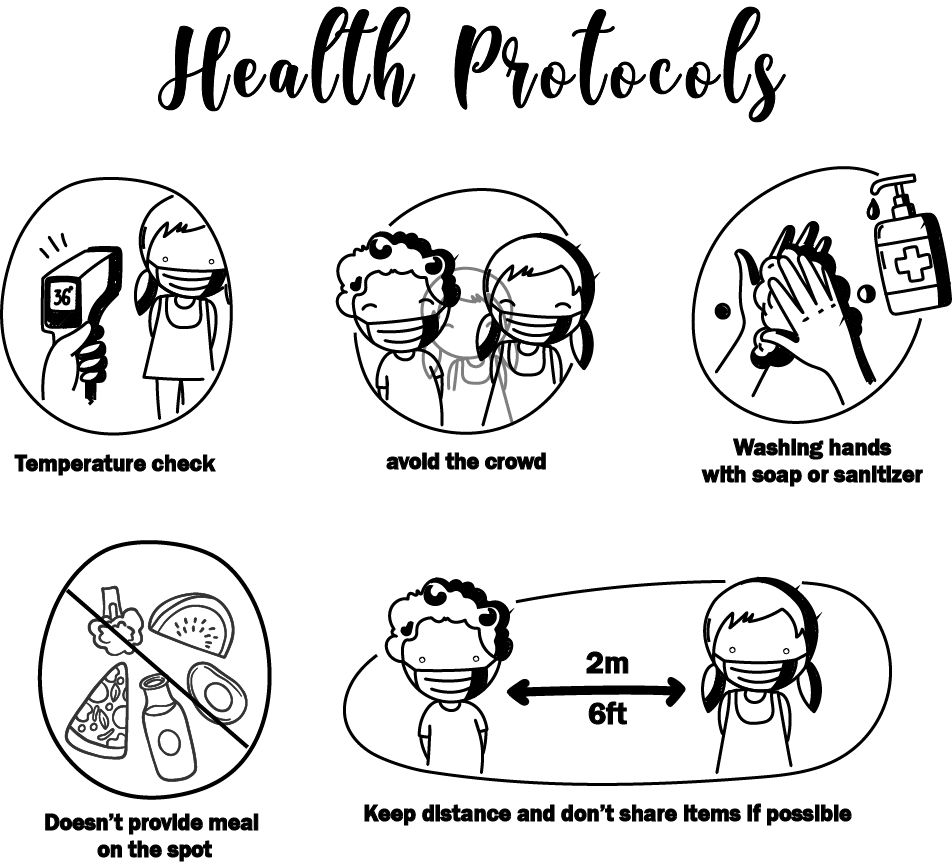
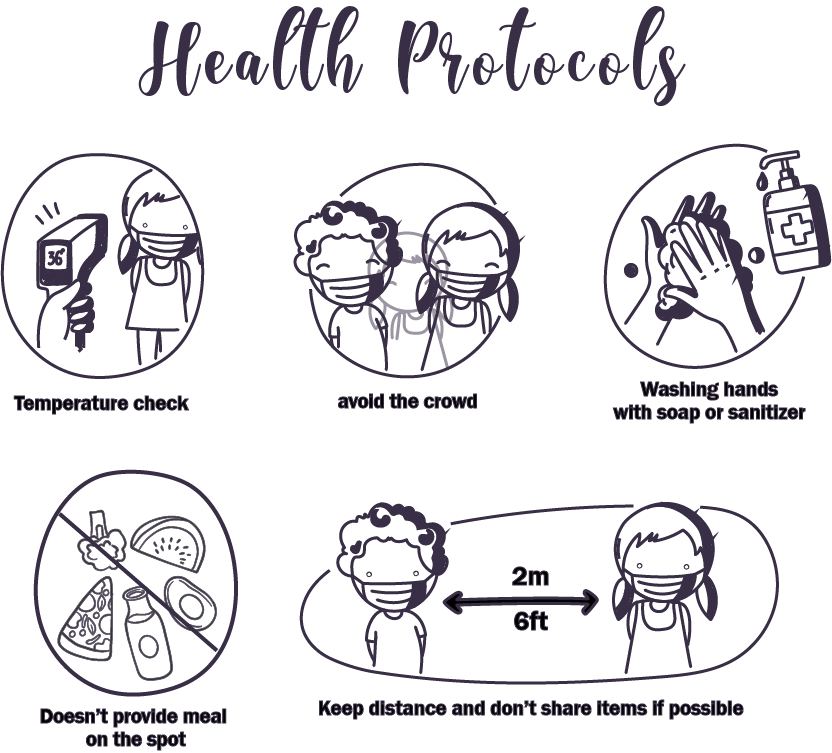
nyenyenyenyenyenye

diff --git a/css/style.css b/css/style.css
@@ -388,7 +388,7 @@ img{
 
 .content-isra h3 b,
 .content-isra p{
-  color: black;
+  color: #484272;
   font-family: 'Playfair Display', serif;
   font-size: 15px;
   line-height: 25px;
@@ -510,6 +510,19 @@ img{
 
 .date{
   margin: 50px 0;
+  position: relative;
+}
+
+.date .ornamen-date{
+  position: absolute;
+  top: 0;
+  left: 0;
+}
+
+.date .ornamen-date img{
+  width: 100%;
+  height: 850px;
+  /* background-color: aquamarine; */
 }
 
 .date .save-the-date,
@@ -519,7 +532,14 @@ img{
   flex-direction: column;
   justify-content: center;
   align-items: center;
-  width: 100vw;
+  width: 90%;
+}
+
+.date .save-the-date img,
+.date .text-date img,
+.date .location img,
+.date .text-date p{
+  margin-left: 150px;
 }
 
 .text-date{
@@ -527,7 +547,7 @@ img{
 }
 
 .text-date img{
-  width: 200px;
+  width: 150px;
 }
 
 .text-date .line-date img{
@@ -536,16 +556,18 @@ img{
 
 .text-date p{
   margin: 10px 0;
-  color: black;
-  font-family: 'Playfair Display', serif; 
+  color: #484272;
+  font-family: 'Playfair Display', serif;
+  font-size: 18px; 
 }
 
 .save-the-date img{
-  width: 250px;
+  margin-top: 140px;
+  width: 100px;
 }
 
 .location img{  
-  width: 300px;
+  width: 240px;
 }
 
 .location a img{
@@ -576,6 +598,7 @@ img{
 }
 
 .protokol img{ 
+  margin-top: 50px;
   width: 90%;
   height: 320px;
 }
@@ -789,12 +812,12 @@ input[type="radio"] {
   font-family: 'christmas';
   letter-spacing: 5px;
   font-weight: lighter;
-  color: black;
+  color: #484272;
   margin-top: 100px;
 }
 
 .box p{
-  color: black;
+  color: #484272;
   text-align: center;
   font-family:Verdana, Geneva, Tahoma, sans-serif;
   padding: 0 20px 10px 20px;
@@ -804,17 +827,17 @@ input[type="radio"] {
   width: 100%;
   height: 40px;
   background: transparent;
-  border: black 1px solid ;
+  border: #484272 1px solid ;
   font-size: 20px;
   font-family: 'Redressed', cursive;
   margin-bottom: 20px;
   cursor: pointer;
-  color: black;
+  color: #484272;
 }
 
 .box button:hover{
-  background: black ;
-  color: black;
+  background: #484272 ;
+  color: white;
   transition: .5s;
 }
 
@@ -827,13 +850,13 @@ input[type="radio"] {
   margin-top: 100px;
   font-size: 20px;
   font-family: 'Mitr', sans-serif;
-  color: black;
+  color: #484272;
 }
 
 .thankyou h5{
   text-align: center;
   font-family: 'amalfi';
-  color: black;
+  color: #484272;
   font-size: 25px !important;
   font-weight: lighter;
   margin-top: 20px;
@@ -848,8 +871,8 @@ input[type="radio"] {
   width: 100%;
   height: 100px;
   background: transparent;
-  border: 1px solid black;
-  color: black;
+  border: 1px solid #484272;
+  color: #484272;
   font-family: 'Josefin Sans',sans-serif;
 }
 
@@ -858,7 +881,7 @@ input[type="radio"] {
 #nama::-webkit-input-placeholder,
 #alamat::-webkit-input-placeholder,
 #kehadiran::-webkit-input-placeholder{
-  color: black;
+  color: #484272;
 }
 
 .contact-us form #message{
@@ -867,7 +890,7 @@ input[type="radio"] {
 
 .contact-us form input:focus,
 .contact-us form #message:focus{
-  outline-color: black;
+  outline-color: #484272;
 }
 .contact-us form input{
   height: 35px;
@@ -879,7 +902,7 @@ input[type="radio"] {
 #input_button{
   height: 40px;
   width: 100%;
-  border: 1px solid black;
+  border: 1px solid #484272;
   background: transparent;
   font-size: 1.0625rem;
   font-weight: 500;
@@ -890,8 +913,8 @@ input[type="radio"] {
 }
 
 #input_button:hover{
-  background-color: black;
-  color:black;
+  background-color: #484272;
+  color:white;
 }
 
 #input_button:active{
@@ -917,7 +940,7 @@ input[type="radio"] {
 }
 
 .task_container:hover{
-  background-color: black;
+  background-color: #484272;
 }
 
 #task_data{
@@ -933,7 +956,7 @@ input[type="radio"] {
   width:100%;
   text-align: left;
   padding: 0;
-  color: black;
+  color: #484272;
 }
 
 #task_ucapan p{
@@ -947,7 +970,7 @@ input[type="radio"] {
   font-size:15px;
   font-weight: bold;
   padding-top: 5px;
-  color: black;
+  color: #484272;
 }
 
 .footer{
@@ -972,12 +995,12 @@ input[type="radio"] {
 }
 
 .footer p{
-  color: black;
+  color: #484272;
   z-index: 100;
 }
 
 .footer a{
-  color: black;
+  color: #484272;
   text-decoration: none;
   z-index: 100;
 }

diff --git a/index.html b/index.html
@@ -143,21 +143,24 @@
         </div>
         <div class="text-date" data-aos="fade-right" data-aos-duration="3000">
             <img src="asset/image/date.png" alt="">
-            <div class="line-date">
+            <!-- <div class="line-date">
                 <img src="asset/image/line date.png" alt="">
-            </div>
-            <p>Pukul 10.00 - 17.00</p>
+            </div> -->
+            <p>Pukul 08.00 - 12.00</p>
         </div>
         <div class="location" data-aos="fade-up" data-aos-duration="3000">
             <img src="asset/image/location.png" alt="">
-            <a href="https://goo.gl/maps/xuavJg6fpR1Y9i4p7" data-aos="fade-up" data-aos-duration="3000">
+            <a href="https://goo.gl/maps/dKM8rZDjyUfVxZL38" data-aos="fade-up" data-aos-duration="3000">
                 <img src="asset/image/direction.png" alt="">
             </a>
+        </div>
+        <div class="ornamen-date">
+            <img src="asset/image/ornamen-date.png" alt="">
         </div>
     </div>
 
      <div class="sorry-protokol">
-         <div class="sorry">
+         <!-- <div class="sorry">
             <p  data-aos="fade-up" data-aos-duration="3000">
                 Tanpa mengurangi rasa hormat sehubungan dengan situasi pandemi COVID-19 
                 kami memohon maaf yang sebesar-besarnya karena hanya dapat mengundang 
@@ -168,13 +171,13 @@
         </div>
         <a href="#" data-aos="fade-right" data-aos-duration="3000">
             <img src="asset/image/live streaming.png" alt="">
-        </a>
+        </a> -->
         <div class="protokol" data-aos="fade-up" data-aos-duration="3000">
             <img src="asset/image/Prokes.png" alt="">
         </div>
     </div>
 
-    <div class="gallery-photo">
+    <!-- <div class="gallery-photo">
         <div class="gallery-title" data-aos="fade-up" data-aos-duration="3000">
             <h2>Our Gallery</h2>
         </div>
@@ -186,9 +189,9 @@
               <div class="swiper-slide"><img src="asset/image/gallery/4.jpg" alt=""></div>
             </div>
           </div>
-    </div>
+    </div> -->
     
-    <div class="rsvp" data-aos="fade-up" data-aos-duration="3000">
+    <!-- <div class="rsvp" data-aos="fade-up" data-aos-duration="3000">
         <div class="rsvp-title">
             <h2>RSVP</h2>
             <p>Kami tidak sabar menunggu hari pernikahan kami bersama Bapak/Ibu/Saudara/i, mohon konfirmasi kehadiran Bapak/Ibu/Saudara/i.</p>
@@ -209,7 +212,7 @@
                             <label for="kehadiran1">Tidak Hadir</label>
                         </p>                        
                     </div>
-                    <!-- <input id="kehadiran" name="Kehadiran" required placeholder="Apakah anda bisa menghadiri acara atau tidak?" /> -->
+                   anu <input id="kehadiran" name="Kehadiran" required placeholder="Apakah anda bisa menghadiri acara atau tidak?" />
                     <div class="btn">
                         <button type="submit" class="buttonkirim">Send</button>
                     </div>
@@ -221,7 +224,7 @@
                 </div>
             </form>
         </div>
-    </div>
+    </div> -->
 
     
 

diff --git a/js/script.js b/js/script.js
@@ -102,7 +102,7 @@ var firebaseConfig = {
   
     if(input_box.value.length != 0 && input_date.value.length != 0){
       // our boxes have data and we take database
-      var key = firebase.database().ref().child("devy").push().key;
+      var key = firebase.database().ref().child("elita").push().key;
       var task = {
         ucapan: input_box.value,
         nama: input_date.value,
@@ -110,12 +110,16 @@ var firebaseConfig = {
       };
   
       var updates = {};
-      updates["/devy/" + key] = task;
+      updates["/elita/" + key] = task;
       firebase.database().ref().update(updates);
       create_unfinished_task();
       swal("Pesan telah terkirim", "Silakan cek pesan anda di kolom yang sudah ada", "success");
       input_box.value='';
       input_date.value='';
+      // setTimeout(function(){
+      //   input_box.value='..';
+      //   input_date.value='..';
+      // }, 1); 
     }
   }
 
@@ -125,7 +129,7 @@ function create_unfinished_task(){
     unfinished_task_container.innerHTML = "";
   
     task_array = [];
-    firebase.database().ref("devy").once('value', function(snapshot) {
+    firebase.database().ref("elita").once('value', function(snapshot) {
       snapshot.forEach(function(childSnapshot) {
         var childKey = childSnapshot.key;
         var childData = childSnapshot.val();
